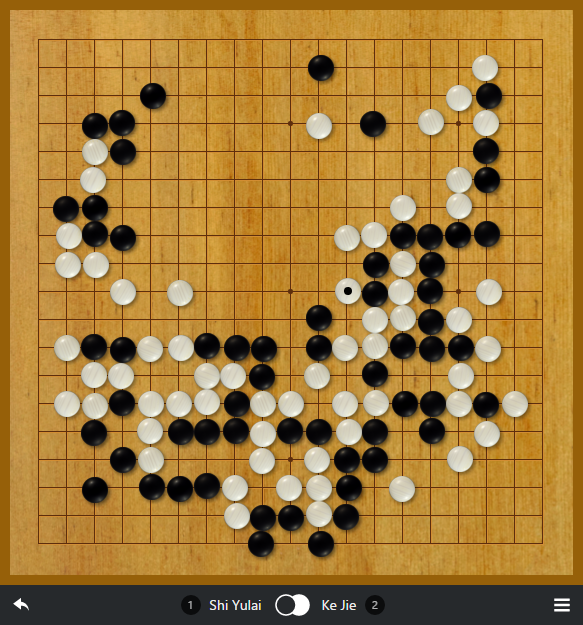
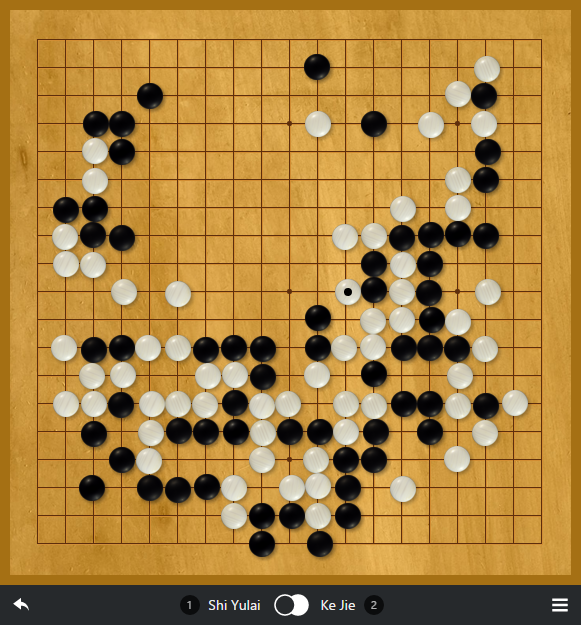
Use less scratchy board texture

Changed region(s): [[0.0, 0.0, 0.9604, 0.9728], [0.3718, 0.9424, 0.4337, 0.9728]]

diff --git a/styles.css b/styles.css
@@ -1,19 +1,19 @@
 /* This stylesheet is loaded when Sabaki starts up. */
 
 .goban {
-    border-color: #966009;
+    border-color: #A57014;
 }
 
 .goban,
 .goban .row li .stone span::before,
 .goban .row li .stone span::after,
 .goban .row li.cross .stone span {
-        background-color: #CB9838;
-        background-image: url('go-assets/wood_full_lighter.jpg');
+        background-color: #D8A347;
+        background-image: url('go-assets/wood_used.jpg');
         background-size: cover;
     }
     .goban .row li.triangle .stone span::after {
-        border-bottom-color: #CB9838;
+        border-bottom-color: #D8A347;
 }
 
 .goban li.sign_1 .stone img {
